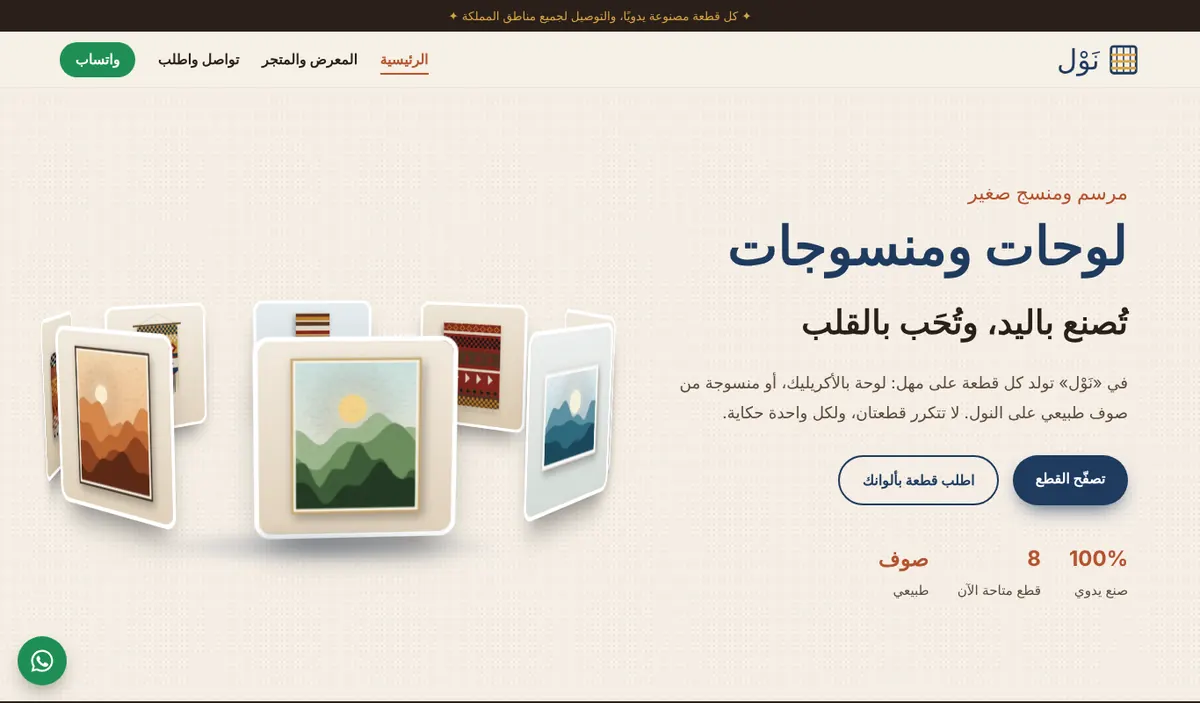
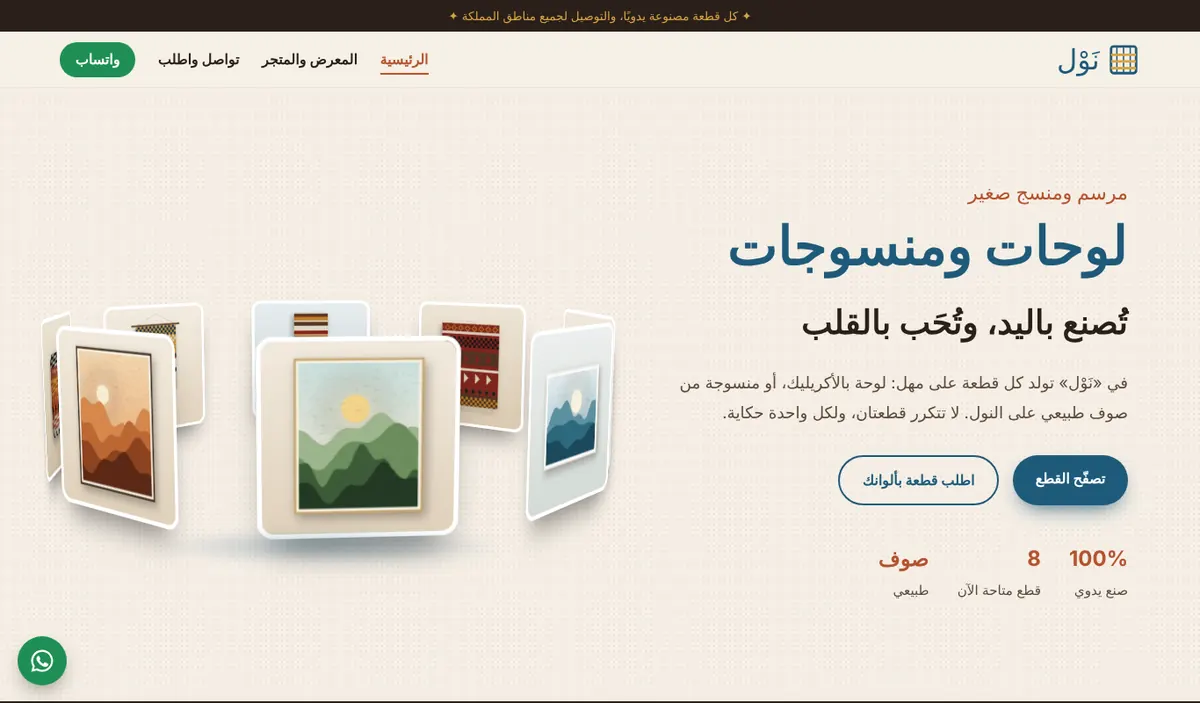
تحديث الاسم إلى سمية محمد حمادي وروابط المواقع
Claude-Session: https://claude.ai/code/session_01XEH7detNZVGK8o3i8msLMh

diff --git a/index.html b/index.html
@@ -3,8 +3,8 @@
 <head>
   <meta charset="UTF-8">
   <meta name="viewport" content="width=device-width, initial-scale=1.0">
-  <title>معرض أعمال سمية محمد مرشد</title>
-  <meta name="description" content="ثلاثة مشاريع صمّمتها سمية محمد مرشد: موقع شخصي، ومتجر نَوْل للمنسوجات، ومتجر سِتْر للعبايات.">
+  <title>معرض أعمال سمية محمد حمادي</title>
+  <meta name="description" content="ثلاثة مشاريع صمّمتها سمية محمد حمادي: موقع شخصي، ومتجر نَوْل للمنسوجات، ومتجر سِتْر للعبايات.">
   <meta name="theme-color" content="#2a1f1a">
   <link rel="preconnect" href="https://fonts.googleapis.com">
   <link rel="preconnect" href="https://fonts.gstatic.com" crossorigin>
@@ -25,9 +25,9 @@
     <section class="hero">
       <div class="hero-text reveal">
         <p class="kicker">أهلًا، أنا</p>
-        <h1>سمية محمد مرشد</h1>
+        <h1>سمية محمد حمادي</h1>
         <p class="sub-h">من الخيط إلى الشاشة: معرض أعمالي</p>
-        <p class="lead">أرسم وأنسج، وأحمل الإحساس نفسه إلى الويب. هنا ثلاثة مشاريع صمّمتها، ولكل منها فكرة ونتيجة.</p>
+        <p class="lead">طالبة لغة إنجليزية وترجمة، أرسم وأنسج، وأحمل الإحساس نفسه إلى الويب. هنا ثلاثة مشاريع صمّمتها، ولكل منها فكرة ونتيجة.</p>
         <a class="btn btn-primary" href="#works">ابدأ الجولة ↓</a>
       </div>
       <div class="deck-scene reveal" aria-hidden="true">
@@ -49,16 +49,16 @@
         <div class="work-visual" data-tilt>
           <div class="browser">
             <span class="dots"><i></i><i></i><i></i></span>
-            <img src="assets/images/shot-personal.webp" alt="لقطة من الموقع الشخصي لسمية محمد مرشد" width="1200" height="703" loading="lazy">
+            <img src="assets/images/shot-personal.webp" alt="لقطة من الموقع الشخصي لسمية محمد حمادي" width="1200" height="703" loading="lazy">
           </div>
           <span class="badge">01</span>
         </div>
         <div class="work-info">
           <p class="type">موقع شخصي · صفحة واحدة</p>
-          <h3>الملف الشخصي: سمية محمد مرشد</h3>
-          <p class="result"><strong>النتيجة:</strong> صفحة تعرّف بي في أقل من دقيقة، فيها معرض لوحات ثلاثي الأبعاد ومكعب نقوش يدور باللمس.</p>
+          <h3>الملف الشخصي: سمية محمد حمادي</h3>
+          <p class="result"><strong>النتيجة:</strong> صفحة تعرّف بي طالبةَ لغة إنجليزية وترجمة في أقل من دقيقة، فيها معرض لوحات ثلاثي الأبعاد ومكعب نقوش يدور باللمس.</p>
           <ul class="tags"><li>HTML</li><li>CSS 3D</li><li>JavaScript</li><li>هوية بصرية</li></ul>
-          <a class="btn btn-primary" href="https://sumaya-morshed.pages.dev" target="_blank" rel="noopener">زيارة الموقع ↗</a>
+          <a class="btn btn-primary" href="https://sumaya-hammadi.pages.dev" target="_blank" rel="noopener">زيارة الموقع ↗</a>
         </div>
       </article>
 
@@ -114,7 +114,8 @@
         <p>يسعدني أن أسمع عنها، ونصنع منها شيئًا يشبهك.</p>
         <div class="contact-actions">
           <a class="btn btn-light" href="mailto:sumaya.morshed@gmail.com">راسلني بالبريد</a>
-          <a class="btn btn-outline-light" href="https://sumaya-morshed.pages.dev" target="_blank" rel="noopener">تعرّف عليّ أكثر</a>
+          <a class="btn btn-outline-light" href="https://sumaya-hammadi.pages.dev" target="_blank" rel="noopener">تعرّف عليّ أكثر</a>
+          <a class="btn btn-outline-light" href="https://lingua-studio.pages.dev" target="_blank" rel="noopener">خدمات الترجمة: Lingua Studio</a>
         </div>
       </div>
     </section>
@@ -142,7 +143,7 @@
 
   <footer class="site-footer">
     <div class="sadu-band thin" role="presentation"></div>
-    <p>معرض أعمال سمية محمد مرشد © <span id="year">2026</span> · <a href="https://nawl-studio.pages.dev" target="_blank" rel="noopener">متجر نَوْل</a></p>
+    <p>معرض أعمال سمية محمد حمادي © <span id="year">2026</span> · <a href="https://nawl-studio.pages.dev" target="_blank" rel="noopener">متجر نَوْل</a></p>
   </footer>
 
   <script src="script.js"></script>
